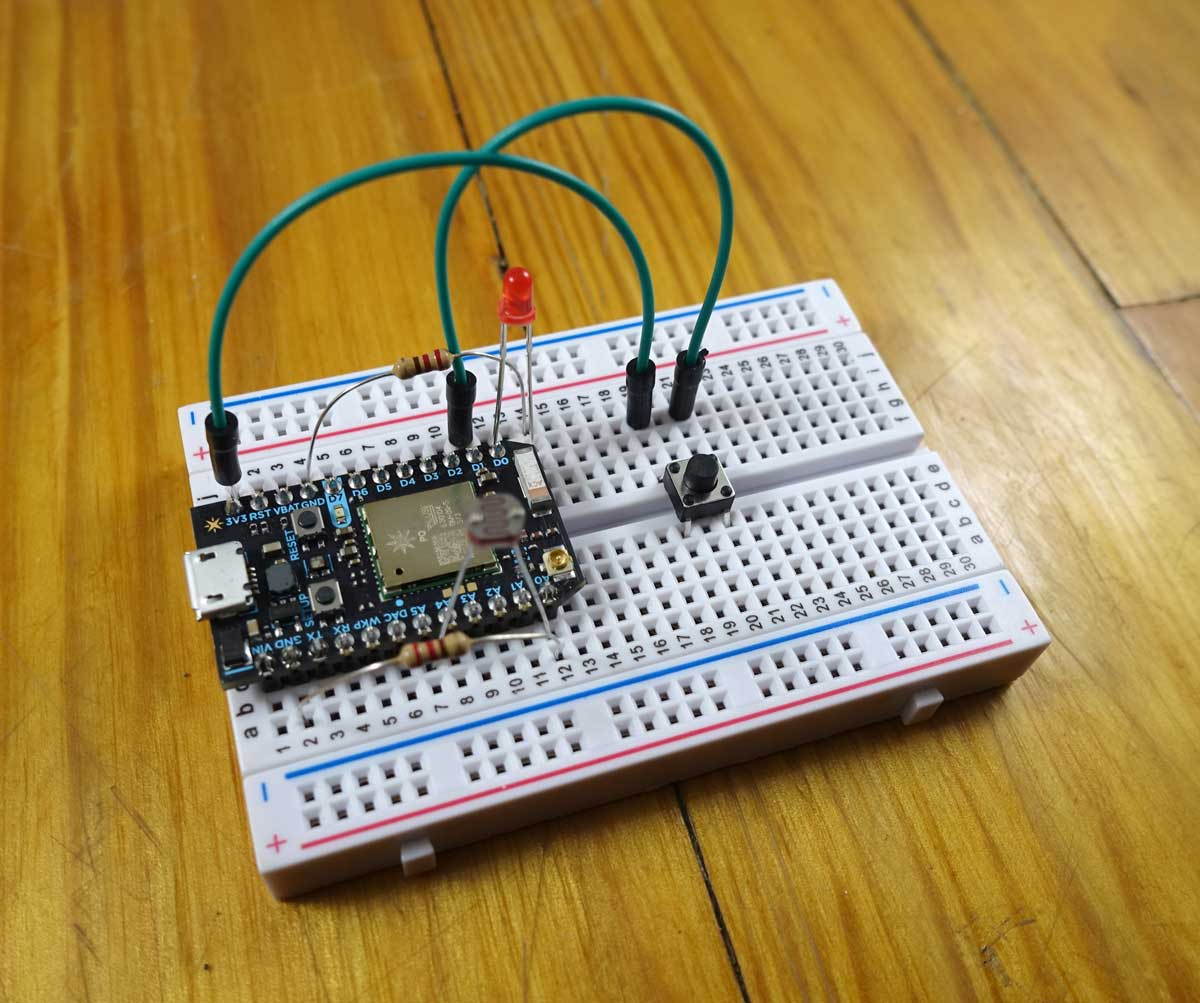
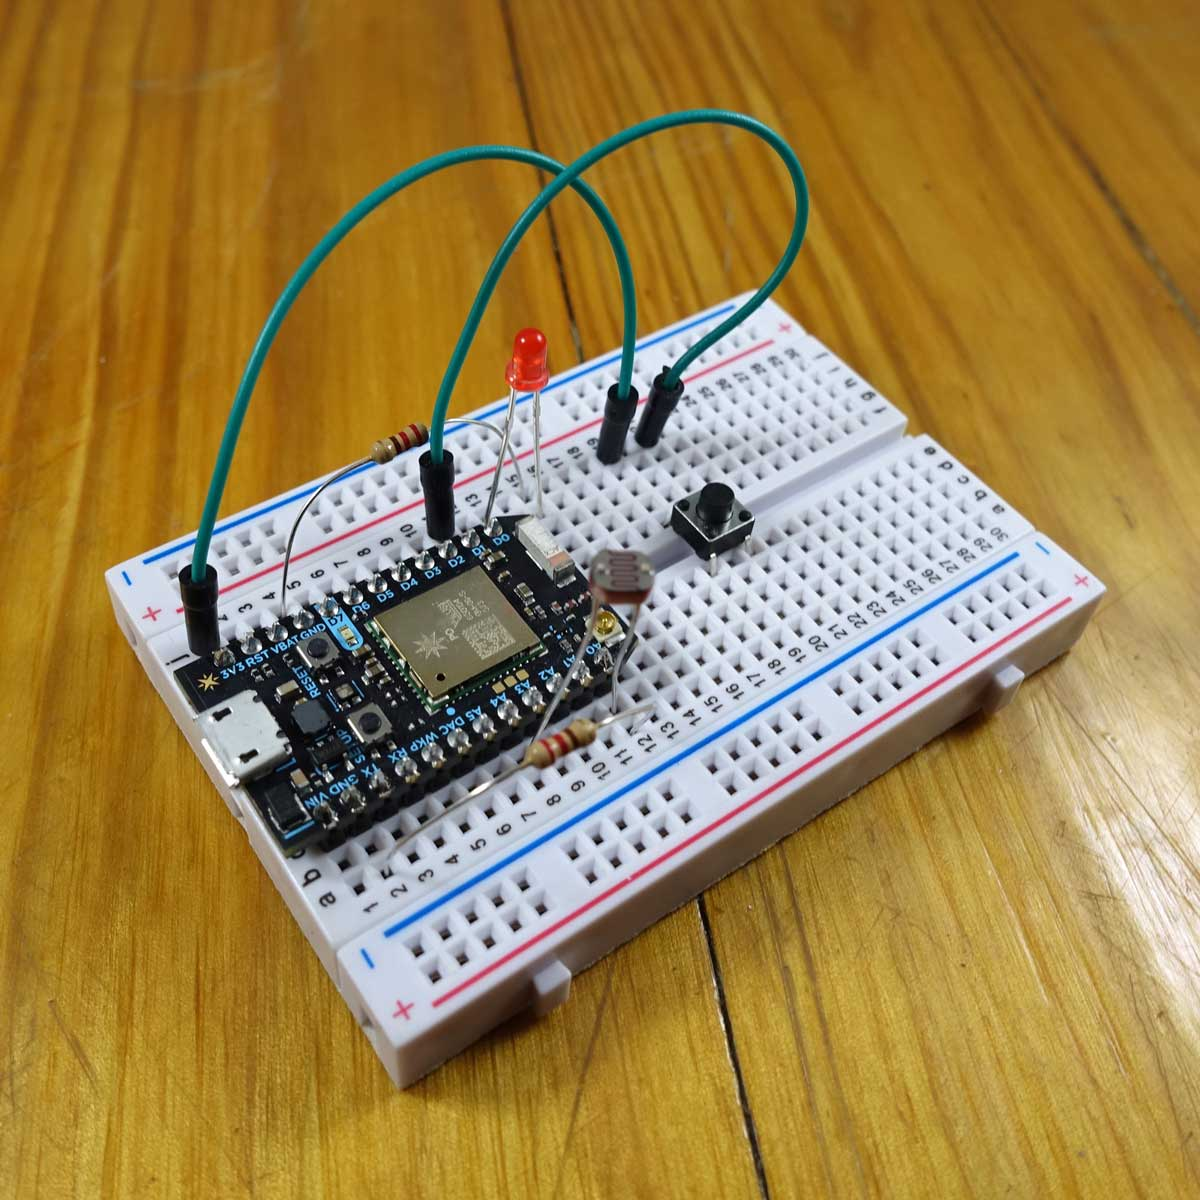
Complete particle workshop instructions.

diff --git a/docs/getting-started/losant-iot-dev-kits/builder-kit-particle.md b/docs/getting-started/losant-iot-dev-kits/builder-kit-particle.md
@@ -1,10 +1,8 @@
 # Losant Particle Builder Kit Instructions
 
-The Losant Particle Builder Kit is a Particle-based version of the <a href="https://store.losant.com/products/losant-builder-kit" target="_blank">Losant Builder Kit</a> and an easy way to get up and running with the Losant IoT developer platform. This kit provides all the hardware and software needed to build a few simple projects that cover a wide variety of the features within the Losant platform.
+The Losant Particle Builder Kit provides an easy way to get up and running with the Losant IoT developer platform. This kit provides all the hardware and software needed to build a few simple projects that cover a wide variety of the features within Losant.
 
 ![Builder Kit](/images/getting-started/losant-iot-dev-kits/builder-kit-particle/builder-kit.jpg "Builder Kit")
-
-// TODO: redo this image.
 
 As you perform these workshops, if you run into any issues, please refer to the [Losant Documentation](https://docs.losant.com) and the [Losant Forums](https://forums.losant.com) for help.
 
@@ -26,7 +24,7 @@ The widget we're building in this workshop includes a button, a light sensor (ph
 
 ## Build the Widget
 
-Remove all the components from the Particle development kit box, remove the Photon from the breadboard, and build the widget as described below. If you're not familiar with how breadboards works, check out our [simple guide](https://www.losant.com/blog/how-to-use-a-breadboard). It might help make some of the wiring make sense.
+Remove all the components from the Particle development kit box, remove the Photon from the breadboard, and build the widget as described below. If you're not familiar with how breadboards works, check out our [simple guide](https://www.losant.com/blog/how-to-use-a-breadboard), which will help explain how the wiring works.
 
 ![Wiring Diagram](/images/getting-started/losant-iot-dev-kits/builder-kit-particle/wiring-diagram.png "Wiring Diagram")
 
@@ -41,11 +39,11 @@ Remove all the components from the Particle development kit box, remove the Phot
 
 The finished widget should look like the below image.
 
-// TODO take picture.
+![Wiring Image](/images/getting-started/losant-iot-dev-kits/builder-kit-particle/wiring-image.jpg "Wiring Image")
 
 ## Setup the Photon
 
-Follows [these instructions](https://docs.particle.io/guide/getting-started/start/photon/#step-1-power-on-your-device) to create a Particle account and properly connect the Photon to the WiFi network. It's likely that several Photons will show up in the list on your mobile device. In order to choose the correct one, you can find its ID on the back of your development kit box.
+Follows [these instructions](https://docs.particle.io/guide/getting-started/start/photon/#step-1-power-on-your-device) to create a Particle account and properly connect the Photon to the WiFi network. If more than one Photon shows up in the list, you can get the ID of yours by looking at the back of the development kit box.
 
 ![Kit Box](/images/getting-started/losant-iot-dev-kits/builder-kit-particle/development-kit-box.jpg "Kit Box")
 
@@ -59,13 +57,11 @@ The sketch we need to upload to the Photon is available in GitHub. Navigate to t
 
 [https://github.com/Losant/losant-kit-builder-particle/blob/master/workshop.ino](https://github.com/Losant/losant-kit-builder-particle/blob/master/workshop.ino)
 
-// TODO: make this public
-
 Once pasted, flash the firmware to your device using the Flash button at the top-left corner of the screen.
 
 ![Flash Firmware](/images/getting-started/losant-iot-dev-kits/builder-kit-particle/flash-firmware.png "Flash Firmware")
 
-The firmware we just flashed is publishing the value of the photoresistor to the Particle cloud every five seconds. It will also publish an event whenever the button is pressed. We can monitor these events using the Particle console. Navigate to [https://console.particle.io/logs](https://console.particle.io/logs) to these events being published in real-time.
+The firmware we just flashed is publishing the value of the photoresistor to the Particle cloud every five seconds. It will also publish an event whenever the button is pressed. We can monitor these events using the Particle console. Navigate to [https://console.particle.io/logs](https://console.particle.io/logs) to see these events being published in real-time.
 
 ![Console Logs](/images/getting-started/losant-iot-dev-kits/builder-kit-particle/console-logs.png "Console Logs")
 
@@ -108,7 +104,7 @@ Click `Save Webhook` to create the webhook. The screen will now display the URL.
 
 ## Particle Integration Setup
 
-Now that we have a webhook, we can give it to Particle so it can send Losant all of those events that are being published. Navigate to [https://console.particle.io/integrations](https://console.particle.io/integrations) and select `New Integration`.
+Now that we have a webhook, we can give it to Particle so it can send Losant the events that are being published. Navigate to [https://console.particle.io/integrations](https://console.particle.io/integrations) and select `New Integration`.
 
 ![New Integration](/images/getting-started/losant-iot-dev-kits/builder-kit-particle/new-integration.png "New Integration")
 
@@ -183,13 +179,17 @@ All triggers place their information on the `data` field of the payload. The web
 
 Now that we have data coming from Particle and into Losant, it's time to send it to the device we created earlier. The first thing we need to do it branch the workflow using a [Conditional](https://docs.losant.com/workflows/logic/conditional/) node based on the event that Particle sends: "light-level" or "button-pressed".
 
+Drag two conditional nodes onto the canvas and connect them to the debug node.
+
 ![Conditional Nodes](/images/getting-started/losant-iot-dev-kits/builder-kit-particle/conditional-nodes.png "Conditional Nodes")
 
-Drag two conditional nodes onto the canvas and connect them to the debug node. Next, set the expression to check for the "light-level" event and the "button-pressed" event:
+Set the expression of the left conditional node to check for the "light-level" event:
 
 ```
 {{ data.body.event }} === "light-level"
 ```
+
+Set the expression of the right conditional node to check for the "button-pressed" event:
 
 ```
 {{ data.body.event }} === "button-pressed"
@@ -254,3 +254,51 @@ This block will now display the sum of all button presses over the last 24 hours
 Feel free to resize and rearrange these blocks however you want. As an added challenge, see if you can display a Dial Gauge that shows the current light level as a value between 0-1024. You would do this by adding another Gauge block and setting the Gauge Type to Dial. I'll leave the rest up to you.
 
 As you continue the workshop, feel free to leave the dashboard open and let it continue to update with new data.
+
+## Use the Button
+
+Since we have a workflow that gets triggered whenever the button is pressed, let's send ourselves an SMS message whenever it occurs. Go back to the workflow and drag an [SMS node](/workflows/outputs/sms/) onto the canvas and connect it to the virtual device node under the button-pressed conditional.
+
+![SMS Node](/images/getting-started/losant-iot-dev-kits/builder-kit-particle/sms-node.png "SMS Node")
+
+1. Set the phone number to your own number.
+1. Set the message to anything you want.
+
+Deploy the workflow using the `Deploy Workflow` button. Now whenever you hit the button you'll get an SMS message. The default limit on the Losant SMS node is one message per minute. If you need more, you can use the [Twilio node](/workflows/outputs/twilio/) to send as many as you want.
+
+Next, let's invoke a third-party web service when you hit the button. If you navigate to [http://lights.mod.bz](http://lights.mod.bz) you'll see a grid of squares. You can post a message to this website and it will light up a random square and display a name and message of your choosing. Everyone else that's viewing the page will also see your message.
+
+Add an HTTP node and connect it to the same node that the SMS node is connected to. You may also want to remove the line connecting the SMS node if you want to stop getting messages to your phone.
+
+![HTTP Node](/images/getting-started/losant-iot-dev-kits/builder-kit-particle/http-node.png "HTTP Node")
+
+1. Set the Request Method to POST.
+1. Set the URL Template to "http://lights.mod.bz".
+1. Set the Body Template to a JSON object with a name and message of your choosing: `{ "name" : "my-name", "message" : "my-message"}`.
+1. Add a header with the name "content-type" and the value "application/json".
+
+Deploy the workflow using the `Deploy Workflow` button. Now when you hit the button, your name and message will appear on the website.
+
+As an additional challenge, see if you can send yourself an email or put a message in one of your Slack channels whenever the button is pressed.
+
+## Remote Controlled LED
+
+The last workshop we're going to do is to remotely control the LED whenever a virtual button is pressed in the workflow. Start by adding a [Virtual Button](https://docs.losant.com/workflows/triggers/virtual-button/) trigger and an HTTP node to the canvas.
+
+![Virtual Button](/images/getting-started/losant-iot-dev-kits/builder-kit-particle/virtual-button.png "Virtual Button")
+
+The virtual button doesn't require any configuration for this example. It's simply a button you can push to trigger the workflow. For the HTTP node, use the following details:
+
+1. Set the Request Method to POST.
+1. Set the URL Template to "https://api.particle.io/v1/devices/events".
+1. Set the Body Template to `{ "name" : "led-toggle" }`.
+1. Add a header with the name "Authorization" and the value "Bearer &lt;Particle Access token&gt;". You can get your Particle Access here: [https://build.particle.io/build#settings](https://build.particle.io/build#settings).
+1. Add a header with the name "content-type" and the value "application/json".
+
+Along with publishing the "light-level" and "button-pressed" events, the Photon firmware we flashed earlier is also subscribed to the "led-toggle" event. This means whenever "led-toggle" is published, it will invoke a function on the Photon to switch the state of the LED. The HTTP node we just added is using the Particle API to publish this event whenever the virtual button is pressed.
+
+Deploy the workflow using the `Deploy Workflow` button. You should now see the LED toggle whenever you press the virtual button.
+
+The Photon is also subscribed to "led-on" and "led-off" for additional control over the LED. As a final challenge, see if you can turn the LED on when the light level goes below a specific number, and turns off when the light level goes back up.
+
+Feel free to continue exploring Particle and Losant and come up with cleaver ways to use these platforms and the workshop hardware!
